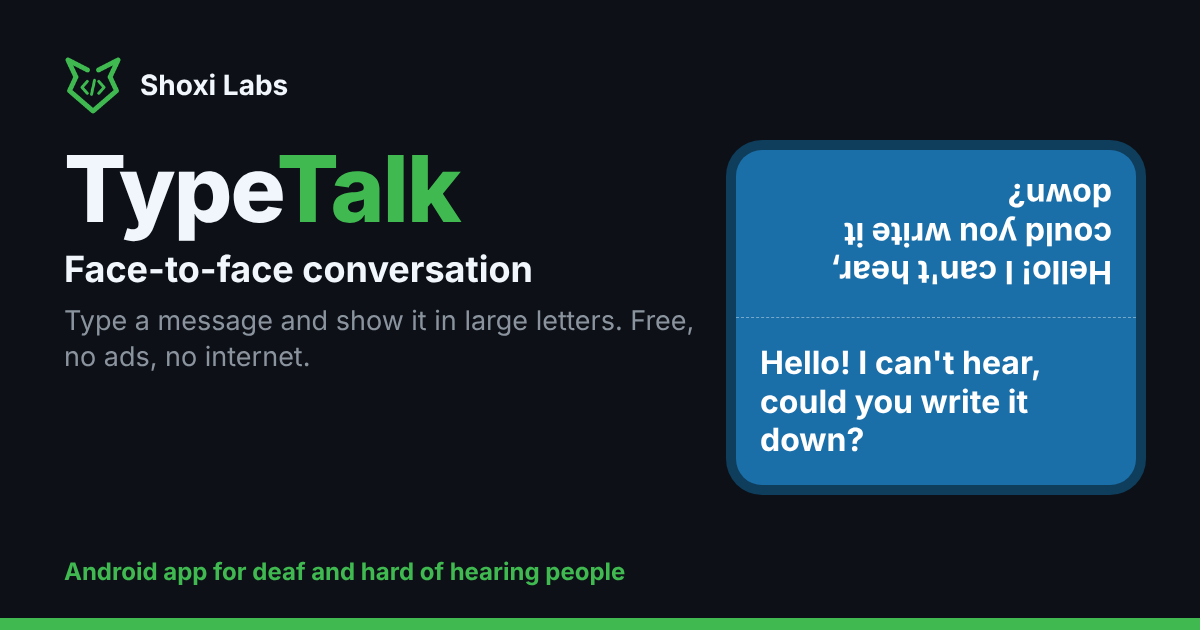
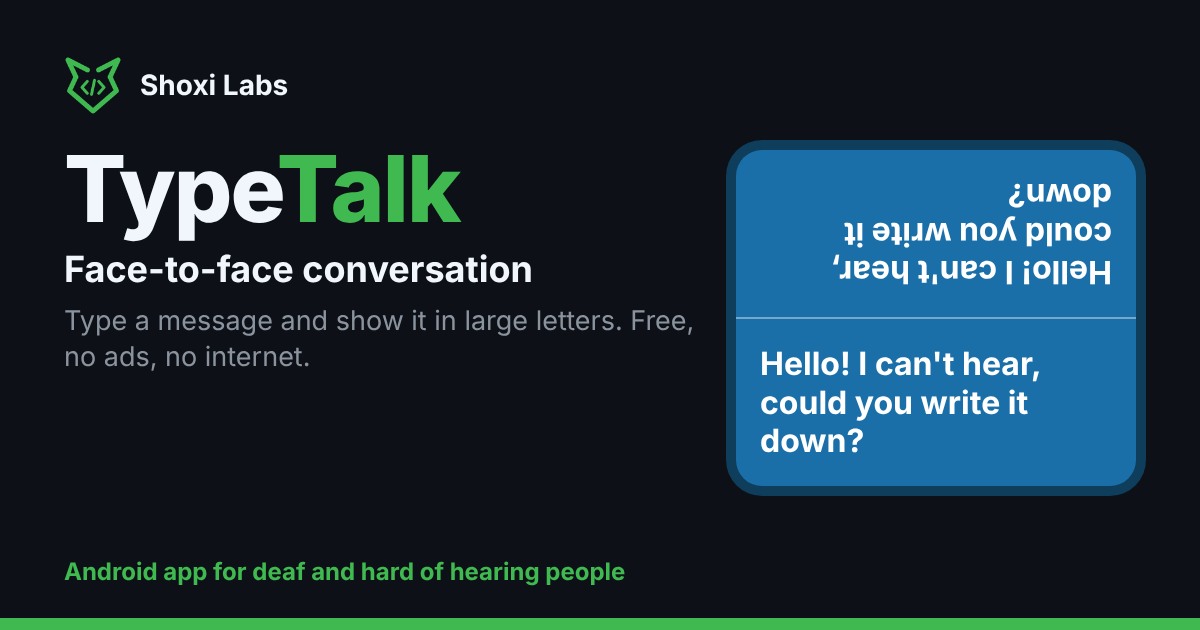
Poruka na webu i na slici za dijeljenje kao u aplikaciji: plavi prikaz, bijeli tekst, puna crta
Claude-Session: https://claude.ai/code/session_01TVLsJjQ57DWhnRNjE4MUdA

diff --git a/styles.css b/styles.css
@@ -83,31 +83,30 @@ a:focus-visible, button:focus-visible {
   margin: 0;
 }
 
-/* The table: a message shown to the person across */
+/* The table: a message shown to the person across (looks like the TypeTalk display) */
 .table {
   margin: 2.75rem 0 0;
-  border: 1px solid var(--line);
-  border-radius: 14px;
-  background: var(--slate);
+  border-radius: 18px;
+  background: #1B6FA8;
+  box-shadow: 0 0 0 6px #0F3D5C;
   overflow: hidden;
 }
 .table .say {
   margin: 0;
   padding: 1.6rem 1.5rem;
-  color: var(--paper);
+  color: #FFFFFF;
   font-size: clamp(1.6rem, 5.2vw, 2.5rem);
   font-weight: 700;
   line-height: 1.2;
 }
 .table .say.across {
   transform: rotate(180deg);
-  color: var(--signal);
 }
-.table .say + .say { border-top: 1px dashed var(--line); }
+.table .say + .say { border-top: 2px solid rgba(255, 255, 255, 0.4); }
 .table figcaption {
-  border-top: 1px solid var(--line);
+  background: #0F3D5C;
   padding: 0.85rem 1.5rem;
-  color: var(--muted);
+  color: rgba(255, 255, 255, 0.8);
   font-size: 0.95rem;
 }
 
